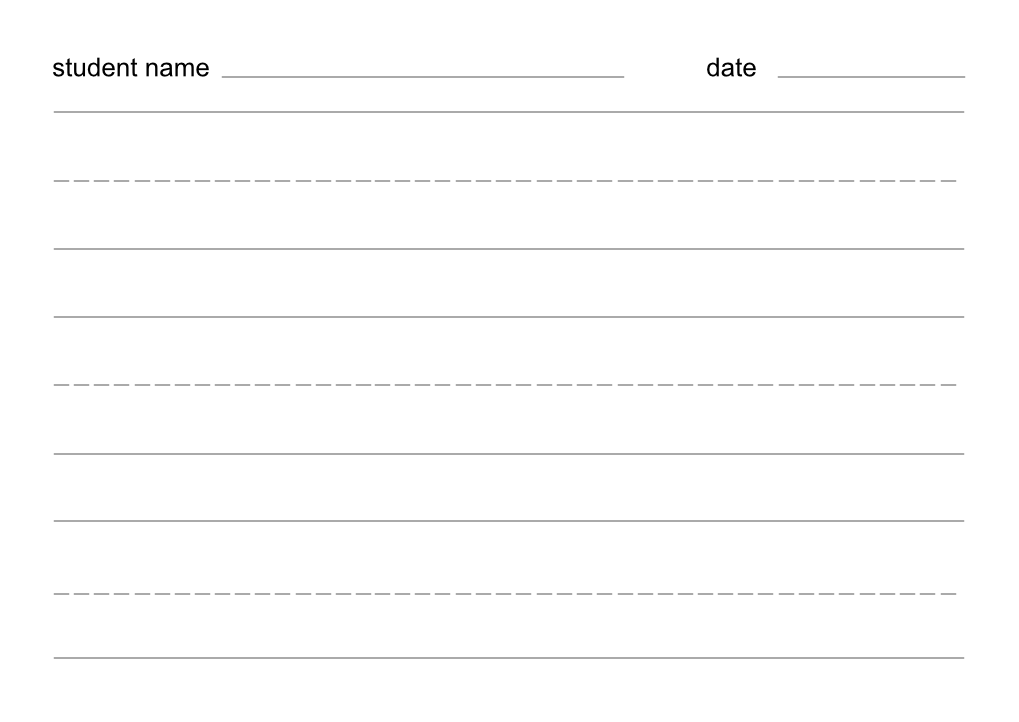
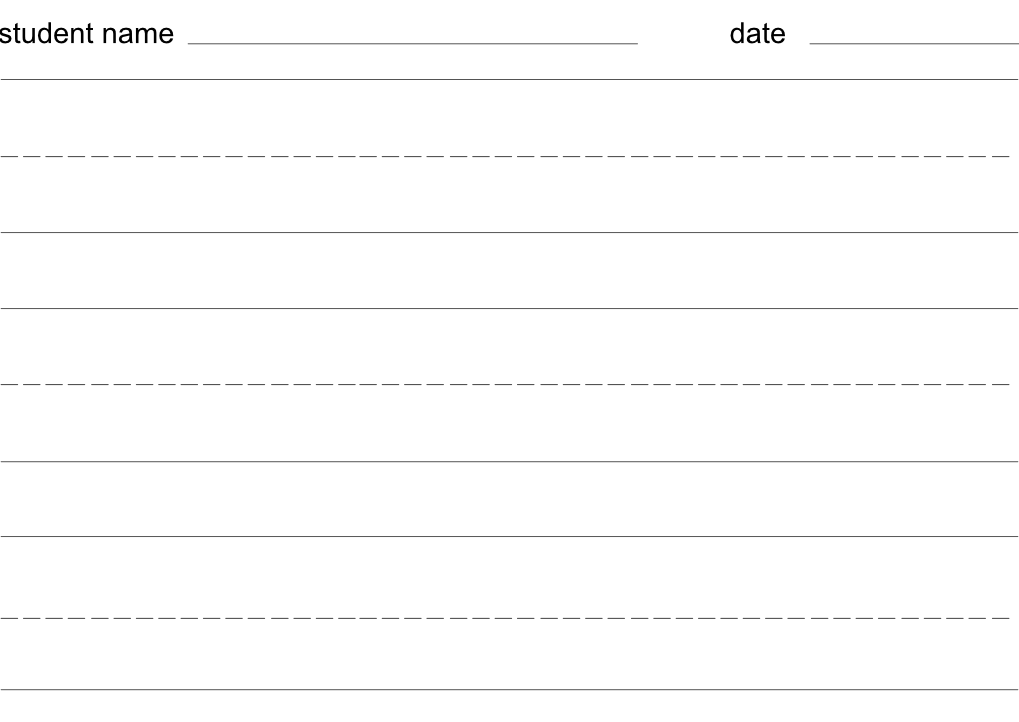
fix line height and font sizes

diff --git a/dot-print/index.html b/dot-print/index.html
@@ -62,14 +62,16 @@
                     },
                     lineStyle: function () {
                         return {
-                            fontSize: this.scale === 'large' ?  `80px` : `30px`,
-                            fontFamily: this.font
+                            fontSize: this.scale === 'large' ?  `152px` : `50px`,
+                            fontFamily: this.font,
+                            lineHeight: this.scale === 'large' ?  `1.3` : `1.06`,
                         }
                     },
                     printStyle: function () {
                         return {
                             textAlign: this.textAlign,
-                            backgroundImage: this.scale === 'large' ? `url(${'./images/handwriting-large.png'})` : `url(${'./images/handwriting-small.png'})`
+                            backgroundImage: this.scale === 'large' ? `url(${'./images/handwriting-large.png'})` : `url(${'./images/handwriting-small.png'})`,
+                            paddingTop: this.scale === 'large' ? `80px` : `80px`
                         }
                     },
                 }

diff --git a/dot-print/stylesheet.css b/dot-print/stylesheet.css
@@ -60,13 +60,12 @@ body {
     max-width: 800px;
     height: 100%;
     max-height: 600px;
-    padding-top: 80px;
-    padding-left: 27px;
     background-repeat: no-repeat;
     background-size: cover;
+    overflow: hidden;
 }
 
 #printarea p {
-    margin: 15px;
+    margin: 0;
     width: 100%;
 }
